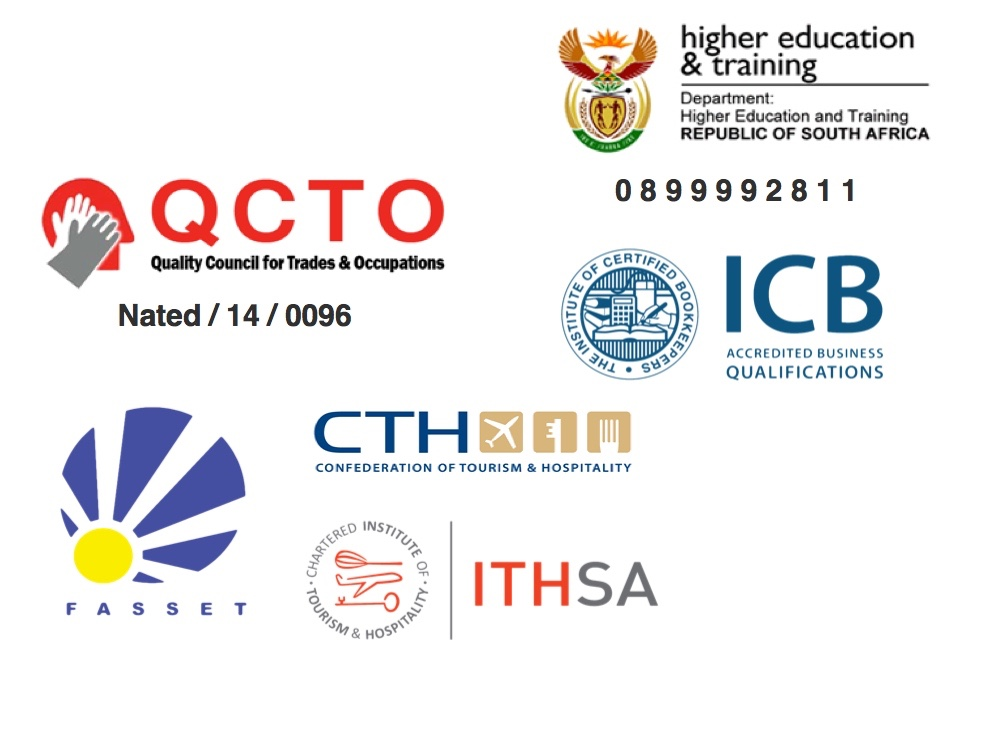
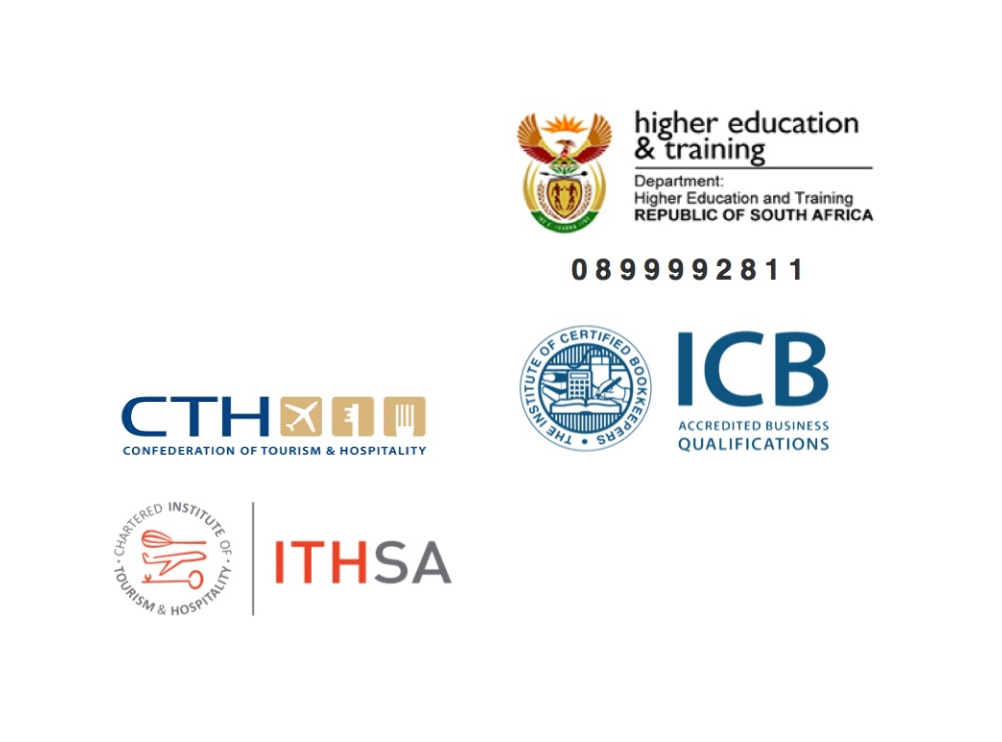
Remove fasset and qcto

Changed region(s): [[0.0619, 0.031, 0.9281, 0.8679], [0.0309, 0.217, 0.4641, 0.403], [0.0928, 0.403, 0.3713, 0.465]]

diff --git a/src/handlers/AccreditationsHandler.js b/src/handlers/AccreditationsHandler.js
@@ -12,16 +12,12 @@ var meta = {
 };
 
 var accreditations = [
-    { "title" : "FASSET", "description" : "Accreditation No: A585000158", "logoLink" : "/images/accreditations/fasset.jpg" },
     { "title" : "Institute of Certified Bookkeepers (ICB)  ", "description" : "Accreditation No: QAP/585/003", "logoLink" : "/images/accreditations/icb.jpg" },
     { "title" : "Confederation of Tourism & Hospitality (CTH) ", "description" : "Accreditation No: 1043", "logoLink" : "/images/accreditations/cth.jpg" },
     { "title" : "TestOut ", "description" : "Authorised Educational Partner", "logoLink" : "/images/accreditations/testout.jpg" },
-    { "title" : "Quality Council for Trades & Occupations (QCTO)", "description" : "Quality Council for Trades & Occupations (QCTO) Accreditation No: NATED/14/0096", "logoLink" : "/images/accreditations/qcto.jpg" },
     { "title" : "Department of Higher Education and Training ", "description" : "Exam Centre Registration Number: 0899992811", "logoLink" : "/images/accreditations/dhet.jpg" },
     { "title" : "Chartered Institute of Tourism & Hospitality (ITHSA) ", "description" : "Accreditatition No: 1043", "logoLink" : "/images/accreditations/ith.jpg" },
     { "title" : "SACAI - Registered Matric Examination Centre", "description" : "No: A-1005-14 Umalisi Provisionally Accredited", "logoLink" : "/images/accreditations/sacai.jpg" }
-
-
 ];
 
 var handler = React.createClass({
